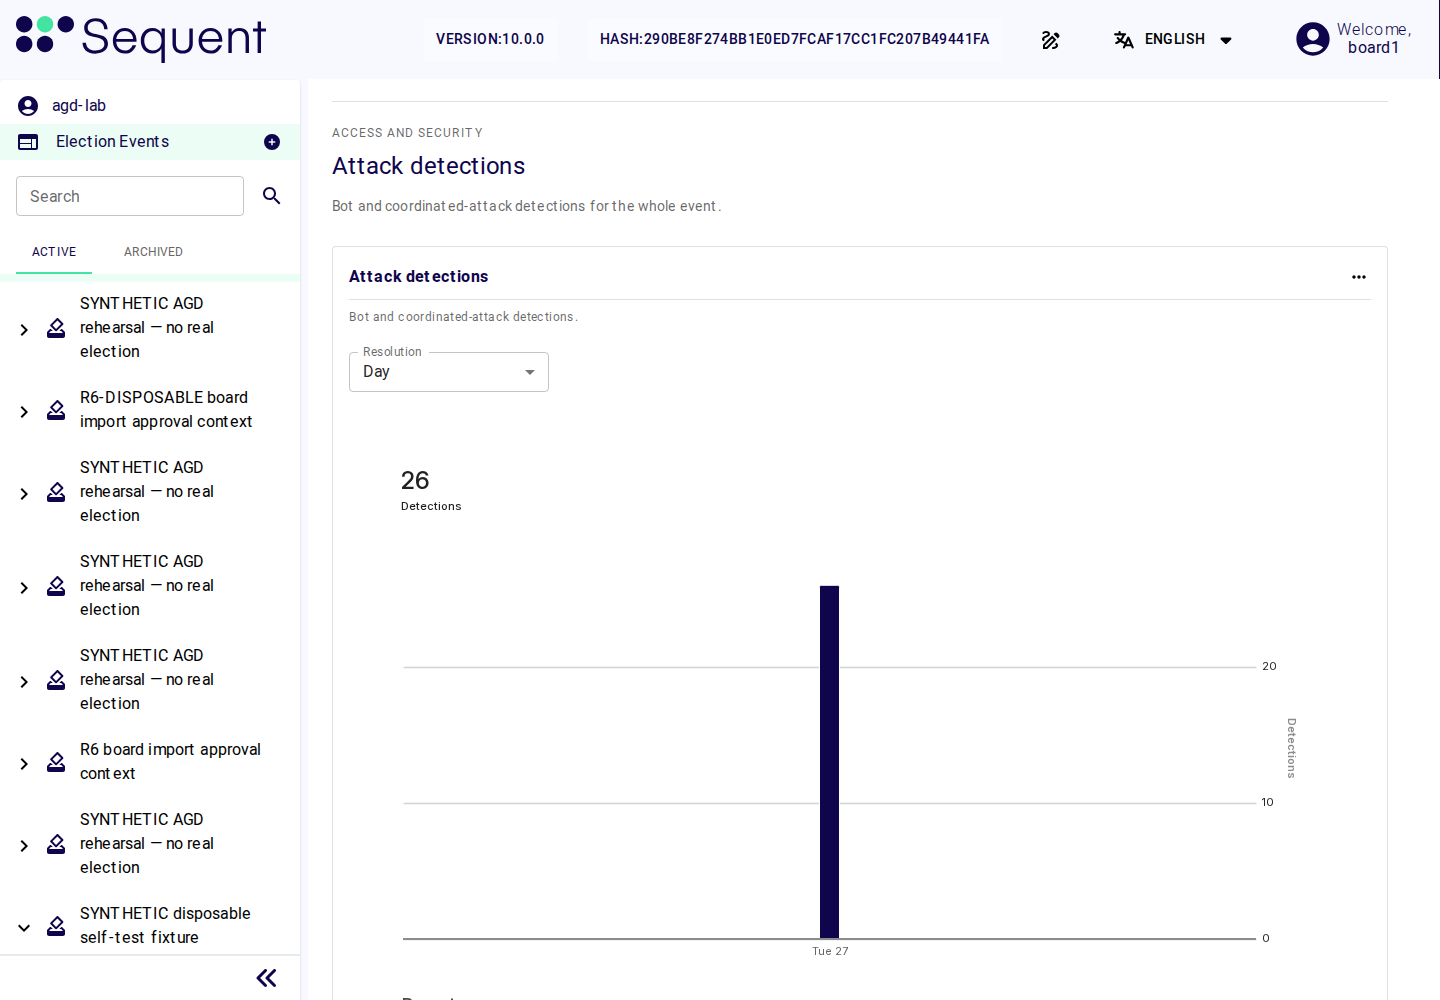
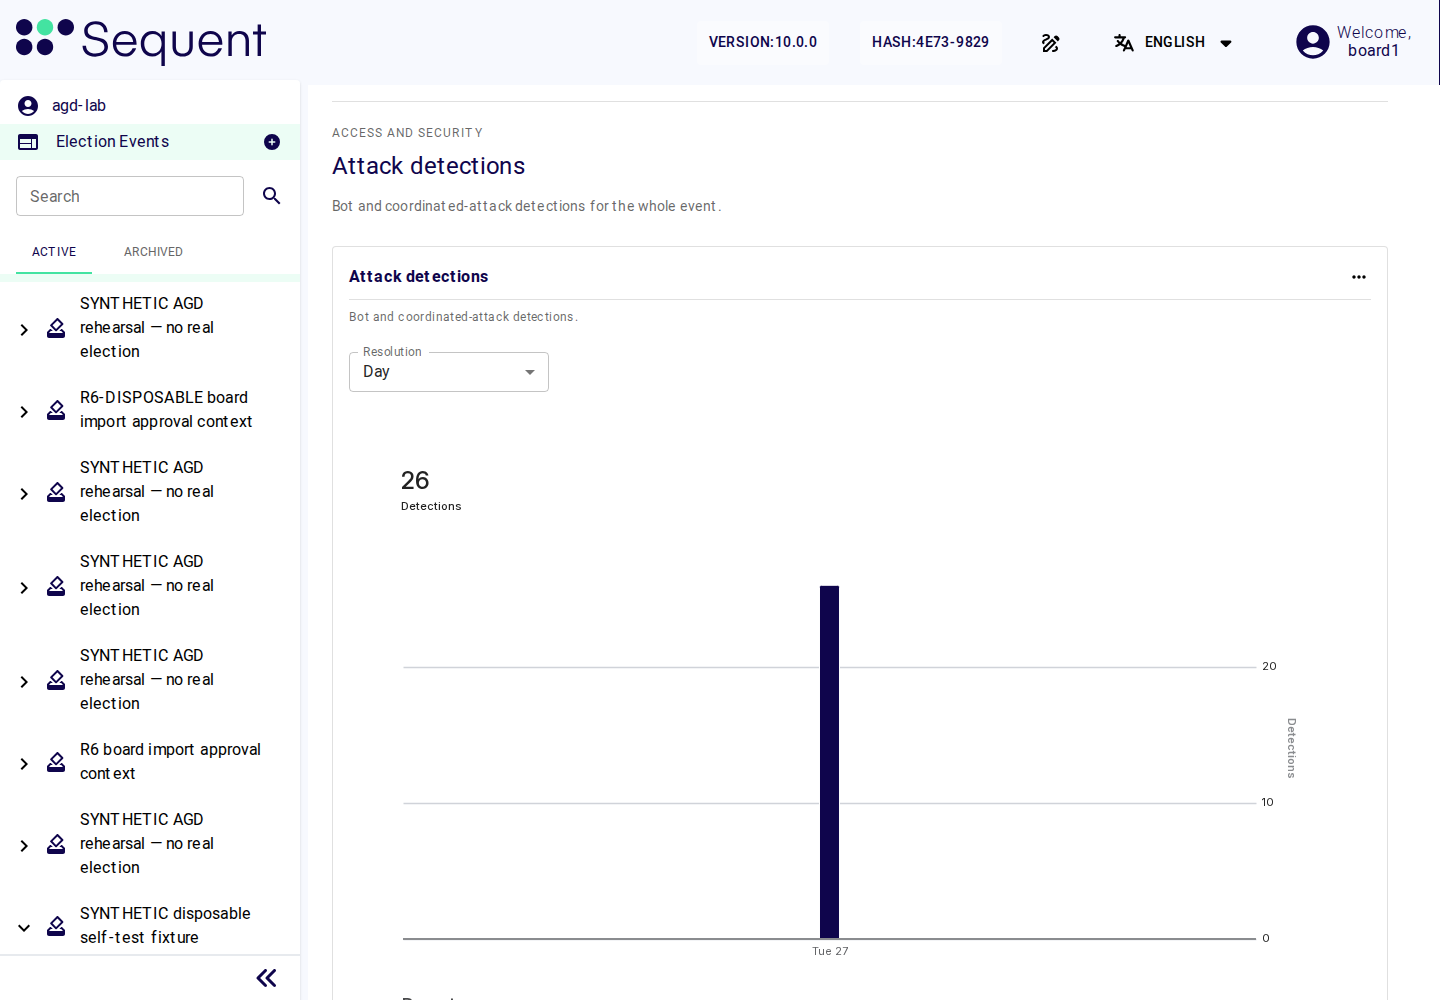
docs(AGD-3): monitoring screenshots with the short build hash
- Re-take the board's preset confirmation and the attack-detections
  chart from a local build with test data; the header shows the short
  hash.
- Their captions no longer refer to the laboratory.

Related: https://github.com/sequentech/meta/issues/10548

diff --git a/docs/docusaurus/docs/02-election_managers/05-election_organizer_handbook/06-preparation.md b/docs/docusaurus/docs/02-election_managers/05-election_organizer_handbook/06-preparation.md
@@ -262,16 +262,16 @@ To prepare the dashboard:
    and correlate them with the signed **PotentialAttackDetected** records in
    **Logs** before approving the election event's configuration.
 
-![Actual board confirmation before creating the monitoring layout](./assets/monitoring-preset-confirmation.png)
+![Board confirmation before creating the monitoring layout](./assets/monitoring-preset-confirmation.png)
 
-The example above was captured from the evaluator laboratory before the single
-**Reset** operation. After setup, **Not counted yet** means that the first
+The example above shows the confirmation before the single **Reset**
+operation. After setup, **Not counted yet** means that the first
 background count has not completed; wait for the displayed update before
 interpreting the figures.
 
-![Actual chart showing detections in the synthetic evaluator rehearsal](./assets/monitoring-attack-detections-rendered.png)
+![Chart showing detections in a synthetic election event](./assets/monitoring-attack-detections-rendered.png)
 
-This laboratory example shows 26 detections from a completed snapshot. The
+This example shows 26 detections from a completed snapshot. The
 chart is a record of that snapshot; check its update time before treating it
 as current. An older snapshot remains useful when reviewing an ended event.
 
